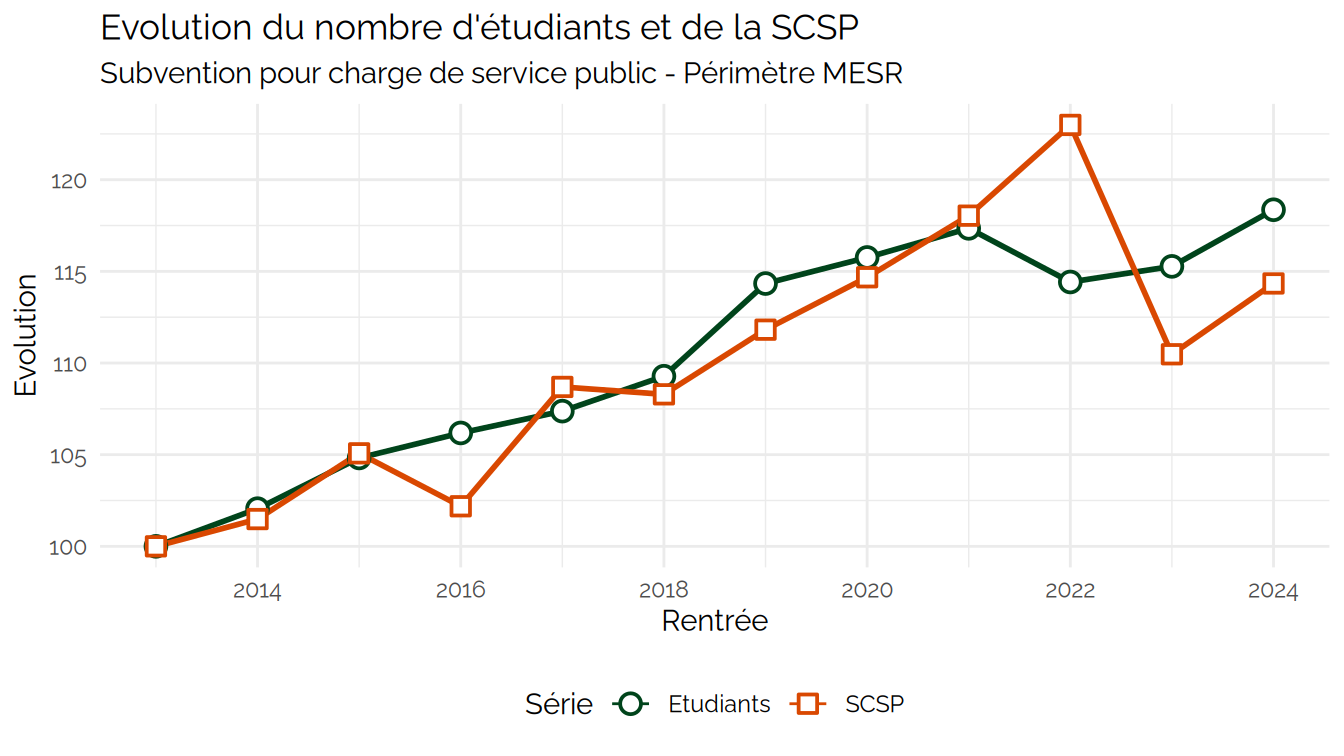
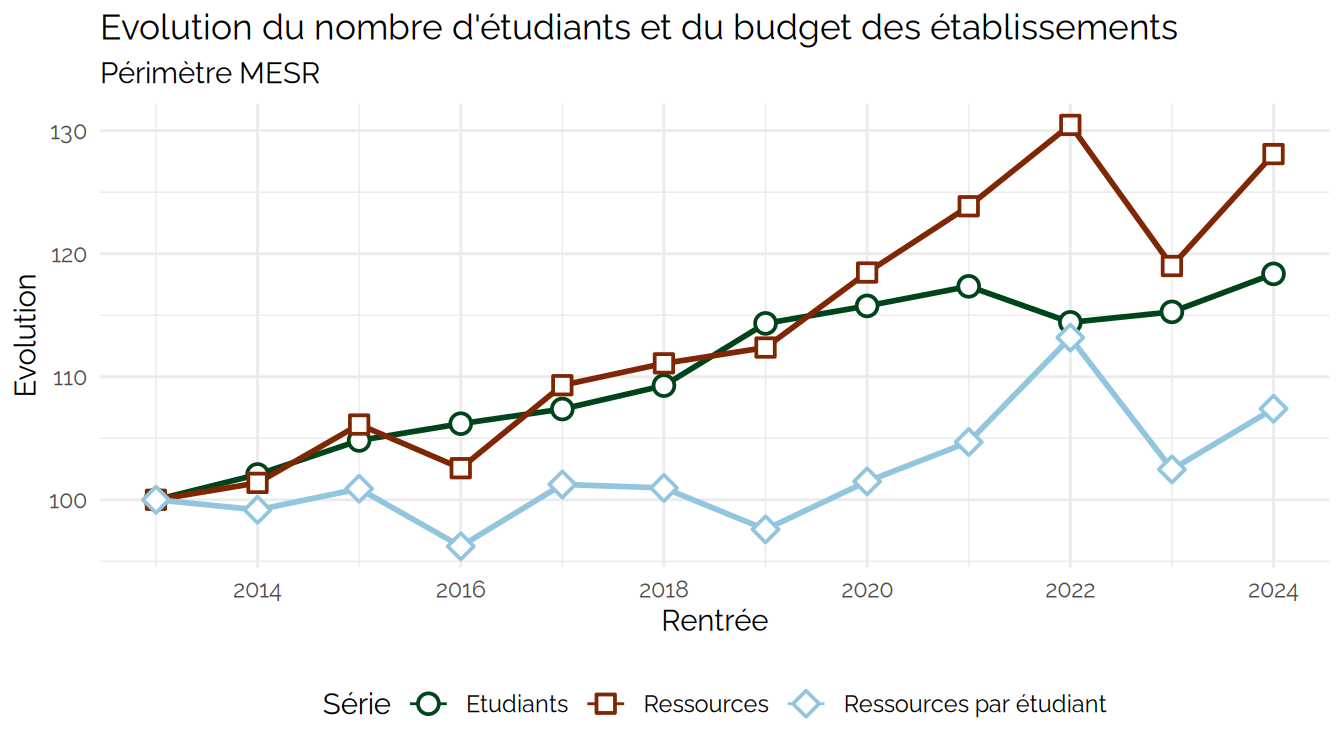
PMP

diff --git a/ressources/publications/PMP.md b/ressources/publications/PMP.md
@@ -1,74 +1,324 @@
 Démonstration PMP
 ================
 Julien Gossa
-2026-01-15
+2026-01-16
 
-    ## Warning: Using `size` aesthetic for lines was deprecated in ggplot2 3.4.0.
-    ## ℹ Please use `linewidth` instead.
-    ## ℹ The deprecated feature was likely used in the kpiESR package.
-    ##   Please report the issue to the authors.
-    ## This warning is displayed once every 8 hours.
-    ## Call `lifecycle::last_lifecycle_warnings()` to see where this warning was
-    ## generated.
+``` r
+kpiesr_plot_line("Ensemble", c("kpi.ETU.P.effectif","kpi.FIN.P.ressources","kpi.K.resPetu"), val="evolution") +
+  ggtitle("Evolution du nombre d'étudiants et du budget des établissements", subtitle="Périmètre MESR") +
+  guides(linetype = "none", alpha = "none", size="none")
+```
 
 <img src="PMP_files/figure-gfm/unnamed-chunk-1-1.png" width="672" />
 
-<img src="PMP_files/figure-gfm/unnamed-chunk-2-1.png" width="672" />
+``` r
+kpiESR::esr %>%
+  filter(Groupe == "Ensemble") %>%
+  select(Groupe,Rentrée,kpi.ETU.P.effectif,kpi.FIN.P.ressources,kpi.K.resPetu) %>%
+  spoiler_table(trim = Inf)
+```
+
+<details>
+
+<summary>
+
+Voir les données ( 20 lignes)
+</summary>
+
+| Groupe   | Rentrée | kpi.ETU.P.effectif | kpi.FIN.P.ressources | kpi.K.resPetu |
+|:---------|--------:|-------------------:|---------------------:|--------------:|
+| Ensemble |    2006 |            1529623 |                   NA |            NA |
+| Ensemble |    2007 |            1493175 |                   NA |            NA |
+| Ensemble |    2008 |            1478905 |                   NA |            NA |
+| Ensemble |    2009 |            1522878 |           7776497414 |      5363.035 |
+| Ensemble |    2010 |            1517695 |           9627196714 |      6661.175 |
+| Ensemble |    2011 |            1529764 |          12040180034 |      8257.382 |
+| Ensemble |    2012 |            1545350 |          12003657040 |      8137.190 |
+| Ensemble |    2013 |            1584311 |          14410079364 |      9513.437 |
+| Ensemble |    2014 |            1616863 |          14607836728 |      9435.338 |
+| Ensemble |    2015 |            1660689 |          15291056234 |      9598.863 |
+| Ensemble |    2016 |            1682300 |          14779878750 |      9153.470 |
+| Ensemble |    2017 |            1701163 |          15751952410 |      9631.895 |
+| Ensemble |    2018 |            1731347 |          16007825595 |      9604.987 |
+| Ensemble |    2019 |            1811434 |          16192943523 |      9284.327 |
+| Ensemble |    2020 |            1833963 |          17071925117 |      9655.673 |
+| Ensemble |    2021 |            1859143 |          17847631972 |      9959.983 |
+| Ensemble |    2022 |            1812784 |          18800680913 |     10767.445 |
+| Ensemble |    2023 |            1826270 |          17147802463 |      9748.138 |
+| Ensemble |    2024 |            1875210 |          18458815209 |     10217.281 |
+| Ensemble |      NA |                 NA |                   NA |            NA |
+
+</details>
+
+``` r
+kpiESR::esr %>%
+  filter(pid=="Ensemble", Rentrée > 2008) %>%
+  #filter(pid=="Ensemble", Rentrée > 2008) %>%
+  mutate(diff = kpi.FIN.S.SCSP-kpi.FIN.S.masseSalariale) %>% 
+  mutate(Exercice = Rentrée + 1) %>%
+  ggplot(aes(x=Exercice,y=diff, fill=diff)) +
+  geom_hline(yintercept = 0) +
+  geom_col(color="black") +
+  scale_x_continuous(breaks = seq(2010,2025)) +
+  scale_y_continuous(labels = ~ paste(.x/1e6,"M€"), name = "SCSP-MS") +
+  scale_fill_distiller(palette="RdBu", direction = 0, limits = c(-1.3e9,1.3e9)) +
+  ggtitle("Différence entre SCSP et masse salariale des établissements du MESR") +
+  theme(legend.position = "None", panel.grid.minor.x = element_blank())
+```
 
 <img src="PMP_files/figure-gfm/scsp.vs.ms2-1.png" width="672" />
 
-<img src="PMP_files/figure-gfm/unnamed-chunk-3-1.png" width="672" />
+``` r
+kpiESR::esr %>%
+  filter(pid=="Ensemble", Rentrée > 2008) %>%
+  mutate(Exercice = Rentrée + 1) %>%
+  select(Exercice, kpi.FIN.S.SCSP, kpi.FIN.S.masseSalariale) %>%
+  mutate(diff = kpi.FIN.S.SCSP-kpi.FIN.S.masseSalariale) %>% 
+  spoiler_table(trim = Inf)
+```
+
+<details>
+
+<summary>
+
+Voir les données ( 16 lignes)
+</summary>
+
+| Exercice | kpi.FIN.S.SCSP | kpi.FIN.S.masseSalariale |        diff |
+|---------:|---------------:|-------------------------:|------------:|
+|     2010 |     5871026841 |               5593631473 |   277395369 |
+|     2011 |     7742360328 |               7428452179 |   313908149 |
+|     2012 |     9702971521 |               9400228002 |   302743519 |
+|     2013 |     9803321536 |               9505940729 |   297380808 |
+|     2014 |    11575908623 |              11314788154 |   261120469 |
+|     2015 |    11748000800 |              11595678507 |   152322293 |
+|     2016 |    12163040998 |              12059890872 |   103150126 |
+|     2017 |    11828924354 |              11632354401 |   196569953 |
+|     2018 |    12582413749 |              12182245411 |   400168339 |
+|     2019 |    12535720776 |              12334753530 |   200967246 |
+|     2020 |    12944160082 |              12646990206 |   297169876 |
+|     2021 |    13275114697 |              13049162840 |   225951857 |
+|     2022 |    13664169867 |              13610855650 |    53314217 |
+|     2023 |    14237173831 |              14311329773 |   -74155942 |
+|     2024 |    12788776042 |              13196411788 |  -407635746 |
+|     2025 |    13236050100 |              14490528793 | -1254478693 |
+
+</details>
+
+``` r
+kpiesr_plot_line("Ensemble", c("kpi.FIN.S.SCSP","kpi.FIN.S.recettesFormation","kpi.FIN.S.recettesRecherche"), val="evolution") +
+  ggtitle("Evolution de la SCSP et des recettes propres formation et recherche", subtitle="Subvention pour charge de service public - Périmètre MESR") +
+  guides(linetype = "none", alpha = "none", size="none")
+```
+
+<img src="PMP_files/figure-gfm/unnamed-chunk-4-1.png" width="672" />
+
+``` r
+kpiESR::esr %>%
+  filter(Groupe == "Ensemble") %>%
+  select(Groupe,Rentrée,kpi.FIN.S.SCSP,kpi.FIN.S.recettesRecherche,kpi.FIN.S.recettesFormation, kpi.K.forPetu) %>%
+  spoiler_table(trim = Inf)
+```
+
+<details>
+
+<summary>
+
+Voir les données ( 20 lignes)
+</summary>
+
+| Groupe | Rentrée | kpi.FIN.S.SCSP | kpi.FIN.S.recettesRecherche | kpi.FIN.S.recettesFormation | kpi.K.forPetu |
+|:---|---:|---:|---:|---:|---:|
+| Ensemble | 2006 | NA | NA | NA | NA |
+| Ensemble | 2007 | NA | NA | NA | NA |
+| Ensemble | 2008 | NA | NA | NA | NA |
+| Ensemble | 2009 | 5871026841 | 191880286 | 424744458 | 278.9091 |
+| Ensemble | 2010 | 7742360328 | 191228399 | 528719945 | 348.3704 |
+| Ensemble | 2011 | 9702971521 | 209353252 | 637818439 | 416.9391 |
+| Ensemble | 2012 | 9803321536 | 283306955 | 667052017 | 431.6511 |
+| Ensemble | 2013 | 11575908623 | 369365453 | 606558942 | 382.8535 |
+| Ensemble | 2014 | 11748000800 | 349290283 | 558007131 | 345.1171 |
+| Ensemble | 2015 | 12163040998 | NA | NA | NA |
+| Ensemble | 2016 | 11828924354 | NA | NA | NA |
+| Ensemble | 2017 | 12582413749 | 812503084 | 925695623 | 544.1546 |
+| Ensemble | 2018 | 12535720776 | 850948467 | 935526451 | 540.3460 |
+| Ensemble | 2019 | 12944160082 | 857827343 | 829077063 | 457.6910 |
+| Ensemble | 2020 | 13275114697 | 1020214117 | 1089319927 | 593.9705 |
+| Ensemble | 2021 | 13664169867 | 1227104285 | 1212679498 | 652.2788 |
+| Ensemble | 2022 | 14237173831 | 1271338222 | 1294733608 | 714.2239 |
+| Ensemble | 2023 | 12788776042 | 1164642146 | 1237902370 | 677.8310 |
+| Ensemble | 2024 | 13236050100 | 1359052878 | 1302241656 | 694.4511 |
+| Ensemble | NA | NA | NA | NA | NA |
+
+</details>
+
+``` r
+kpiesr_plot_line("Ensemble", c("kpi.ENS.P.effectif","kpi.ENS.S.titulaires", "kpi.BIA.P.effectif","kpi.BIA.S.titulaires"), val="valeur") +
+  ggtitle("Evolution du nombre d'étudiants et de la SCSP", subtitle="Subvention pour charge de service public - Périmètre MESR") +
+  guides(linetype = "none", alpha = "none", size="none") +
+  xlim(2012,2024)
+```
 
     ## Scale for x is already present.
     ## Adding another scale for x, which will replace the existing scale.
 
-    ## Warning: Removed 4 rows containing missing values or values outside the scale range
-    ## (`geom_line()`).
-
-    ## Warning: Removed 4 rows containing missing values or values outside the scale range
-    ## (`geom_point()`).
-
-<img src="PMP_files/figure-gfm/unnamed-chunk-4-1.png" width="672" />
-
-<img src="PMP_files/figure-gfm/unnamed-chunk-5-1.png" width="672" />
-
 <img src="PMP_files/figure-gfm/unnamed-chunk-6-1.png" width="672" />
+
+``` r
+kpiesr_plot_line("Ensemble", c("kpi.ENS.P.effectif","kpi.ENS.S.titulaires", "kpi.BIA.P.effectif","kpi.BIA.S.titulaires"), val="evolution") +
+  ggtitle("Evolution du nombre d'étudiants et de la SCSP", subtitle="Subvention pour charge de service public - Périmètre MESR") +
+  guides(linetype = "none", alpha = "none", size="none") 
+```
+
+<img src="PMP_files/figure-gfm/unnamed-chunk-7-1.png" width="672" />
+
+``` r
+esr.pnl %>% 
+  filter(pid == "Ensemble") %>%
+  filter(kpi %in% c("kpi.ENS.P.effectif","kpi.ENS.S.titulaires", "kpi.ENS.S.contractuels", "kpi.BIA.P.effectif","kpi.BIA.S.titulaires")) %>%
+  select(kpi, Rentrée, valeur, evolution) %>%
+  filter(!is.na(valeur)) %>%
+  arrange(kpi, Rentrée) %>%
+  spoiler_table(trim=Inf)
+```
+
+<details>
+
+<summary>
+
+Voir les données ( 54 lignes)
+</summary>
+
+| kpi                    | Rentrée | valeur | evolution |
+|:-----------------------|--------:|-------:|----------:|
+| kpi.BIA.P.effectif     |    2015 |  93330 | 100.00000 |
+| kpi.BIA.P.effectif     |    2016 |  95283 | 102.09257 |
+| kpi.BIA.P.effectif     |    2017 |  92357 |  98.95746 |
+| kpi.BIA.P.effectif     |    2018 |  93460 | 100.13929 |
+| kpi.BIA.P.effectif     |    2019 |  93188 |  99.84785 |
+| kpi.BIA.P.effectif     |    2020 |  94492 | 101.24504 |
+| kpi.BIA.P.effectif     |    2021 |  95907 | 102.76117 |
+| kpi.BIA.S.titulaires   |    2015 |  55586 | 100.00000 |
+| kpi.BIA.S.titulaires   |    2016 |  55838 | 100.45335 |
+| kpi.BIA.S.titulaires   |    2017 |  55511 |  99.86507 |
+| kpi.BIA.S.titulaires   |    2018 |  56682 | 101.97172 |
+| kpi.BIA.S.titulaires   |    2019 |  55597 | 100.01979 |
+| kpi.BIA.S.titulaires   |    2020 |  55964 | 100.68003 |
+| kpi.BIA.S.titulaires   |    2021 |  55192 |  99.29119 |
+| kpi.ENS.P.effectif     |    2010 |  69086 |        NA |
+| kpi.ENS.P.effectif     |    2011 |  69541 |        NA |
+| kpi.ENS.P.effectif     |    2012 |  95587 |        NA |
+| kpi.ENS.P.effectif     |    2013 |  95892 | 100.00000 |
+| kpi.ENS.P.effectif     |    2014 |  95654 |  99.75180 |
+| kpi.ENS.P.effectif     |    2015 |  96338 | 100.46511 |
+| kpi.ENS.P.effectif     |    2016 |  97425 | 101.59867 |
+| kpi.ENS.P.effectif     |    2017 |  96477 | 100.61006 |
+| kpi.ENS.P.effectif     |    2018 |  96165 | 100.28470 |
+| kpi.ENS.P.effectif     |    2019 |  97381 | 101.55279 |
+| kpi.ENS.P.effectif     |    2020 |  98353 | 102.56643 |
+| kpi.ENS.P.effectif     |    2021 |  99682 | 103.95236 |
+| kpi.ENS.P.effectif     |    2022 | 100727 | 105.04213 |
+| kpi.ENS.P.effectif     |    2023 | 101420 | 105.76482 |
+| kpi.ENS.S.contractuels |    2012 |   5995 |        NA |
+| kpi.ENS.S.contractuels |    2013 |   5893 | 100.00000 |
+| kpi.ENS.S.contractuels |    2014 |   5567 |  94.46801 |
+| kpi.ENS.S.contractuels |    2015 |   1813 |  30.76531 |
+| kpi.ENS.S.contractuels |    2016 |   2176 |  36.92517 |
+| kpi.ENS.S.contractuels |    2017 |   2455 |  41.65960 |
+| kpi.ENS.S.contractuels |    2018 |   6586 | 111.75971 |
+| kpi.ENS.S.contractuels |    2019 |   6548 | 111.11488 |
+| kpi.ENS.S.contractuels |    2020 |   6712 | 113.89784 |
+| kpi.ENS.S.contractuels |    2021 |   7405 | 125.65756 |
+| kpi.ENS.S.contractuels |    2022 |   8010 | 135.92398 |
+| kpi.ENS.S.contractuels |    2023 |   3629 |  61.58154 |
+| kpi.ENS.S.titulaires   |    2010 |  69086 |        NA |
+| kpi.ENS.S.titulaires   |    2011 |  69541 |        NA |
+| kpi.ENS.S.titulaires   |    2012 |  69622 |        NA |
+| kpi.ENS.S.titulaires   |    2013 |  69934 | 100.00000 |
+| kpi.ENS.S.titulaires   |    2014 |  69973 | 100.05577 |
+| kpi.ENS.S.titulaires   |    2015 |  69628 |  99.56244 |
+| kpi.ENS.S.titulaires   |    2016 |  69643 |  99.58389 |
+| kpi.ENS.S.titulaires   |    2017 |  68520 |  97.97809 |
+| kpi.ENS.S.titulaires   |    2018 |  68585 |  98.07104 |
+| kpi.ENS.S.titulaires   |    2019 |  68592 |  98.08105 |
+| kpi.ENS.S.titulaires   |    2020 |  68452 |  97.88086 |
+| kpi.ENS.S.titulaires   |    2021 |  68175 |  97.48477 |
+| kpi.ENS.S.titulaires   |    2022 |  67845 |  97.01290 |
+| kpi.ENS.S.titulaires   |    2023 |  67886 |  97.07152 |
+
+</details>
+
+``` r
+kpiesr_plot_line("Ensemble", c("kpi.ENS.S.titulaires","kpi.ETU.P.effectif","kpi.K.ensPetu"), val="evolution") +
+  ggtitle("Evolution du nombre d'étudiants et de la SCSP", subtitle="Subvention pour charge de service public - Périmètre MESR") +
+  guides(linetype = "none", alpha = "none", size="none") 
+```
+
+<img src="PMP_files/figure-gfm/unnamed-chunk-9-1.png" width="672" />
+
+``` r
+kpiESR::esr %>%
+  filter(Groupe=="Universités et assimilés", Rentrée == 2024) %>%
+  left_join(kpiESR::esr.etab) %>%
+  mutate(PerimEx = ifelse(PerimEx=="","NINI", PerimEx)) %>%
+  mutate(diff = kpi.FIN.S.SCSP-kpi.FIN.S.masseSalariale) %>% 
+  mutate(Exercice = Rentrée + 1) %>%
+  ggplot(aes(x=kpi.ETU.P.effectif, y=diff, size=kpi.FIN.P.ressources, color=PerimEx, shape=PerimEx)) +
+  geom_hline(yintercept = 0) +
+  ggrepel::geom_text_repel(aes(label=Sigle), 
+                           size=3, color="grey") +
+  geom_point() +
+  scale_x_continuous(labels = ~ paste(.x/1e3,"k"), name = "Effectif étudiants") +
+  scale_y_continuous(labels = ~ paste(.x/1e6,"M€"), name = "SCSP-MS") +
+  scale_size_continuous(labels = ~ paste(.x/1e6,"M€"), name = "Budget") +
+  ggtitle("Taille et différence entre SCSP et masse salariale des universités", subtitle="En fonction de leur budget et de leur périmètre d'excellence, sur l'année 2024-2025") +
+  theme(legend.position = "right", panel.grid.minor.x = element_blank()) +
+  guides(color = guide_legend(override.aes = list(size = 4)))
+```
 
     ## Joining with `by = join_by(Groupe, pid, Etablissement, Groupe.détaillé,
     ## Comparable)`
-
-    ## Warning: Removed 16 rows containing missing values or values outside the scale range
-    ## (`geom_text_repel()`).
-
-    ## Warning: Removed 8 rows containing missing values or values outside the scale range
-    ## (`geom_point()`).
-
-    ## Warning: ggrepel: 27 unlabeled data points (too many overlaps). Consider
-    ## increasing max.overlaps
 
 <img src="PMP_files/figure-gfm/scsp.vs.ms3-1.png" width="672" />
 
+``` r
+kpiESR::esr %>%
+  filter(Groupe=="Universités et assimilés", Rentrée == 2024) %>%
+  left_join(kpiESR::esr.etab) %>%
+  mutate(PerimEx = ifelse(PerimEx=="","NINI", PerimEx)) %>%
+  mutate(taux = kpi.FIN.S.SCSP/kpi.FIN.S.masseSalariale) %>% 
+  filter(taux < 1.5, taux > 0.6) %>%
+  mutate(Exercice = Rentrée + 1) %>%
+  ggplot(aes(x=kpi.ETU.P.effectif, y=taux, size=kpi.FIN.P.ressources, color=PerimEx, shape=PerimEx)) +
+  geom_hline(yintercept = 1) +
+  geom_point() +
+  ggrepel::geom_text_repel(aes(label=Sigle), 
+                           size=3, color="grey") +
+  scale_x_continuous(labels = ~ paste(.x/1e3,"k"), name = "Effectif étudiants") +
+  #scale_y_continuous(labels = ~ paste(.x/1e6,"M€"), name = "SCSP-MS") +
+  scale_size_continuous(labels = ~ paste(.x/1e6,"M€"), name = "Budget") +
+  ggtitle("Différence entre SCSP et masse salariale des universités", subtitle="En fonction de leur taille et de leur périmètre d'excellence") +
+  theme(legend.position = "right", panel.grid.minor.x = element_blank()) +
+  guides(color = guide_legend(override.aes = list(size = 4)))
+```
+
     ## Joining with `by = join_by(Groupe, pid, Etablissement, Groupe.détaillé,
     ## Comparable)`
-
-    ## Warning: Removed 1 row containing missing values or values outside the scale range
-    ## (`geom_point()`).
-
-    ## Warning: Removed 8 rows containing missing values or values outside the scale range
-    ## (`geom_text_repel()`).
-
-    ## Warning: ggrepel: 4 unlabeled data points (too many overlaps). Consider
-    ## increasing max.overlaps
 
 <img src="PMP_files/figure-gfm/scsp.vs.ms4-1.png" width="672" />
 
+``` r
+kpiesr_plot_map(rentrée = 2023, id = "None", groupe = "Universités et assimilés", xvar = "kpi.K.forPetu", yvar = "kpi.K.ensPetu") +
+  labs(
+    title = "Recettes formation par étudiant et taux d'encadrement pédagogique",
+    subtitle = "des universités, en 2023-2024",
+    x = "Recettes formation par étudiant (€)",
+    y = "Taux d'encadrement pédagogique\n(ens. / 100 étu.)"
+  ) +
+  theme(legend.position="right")
+```
+
     ## Joining with `by = join_by(Groupe, pid, Etablissement, Groupe.détaillé,
     ## Comparable)`
 
-    ## Warning: Removed 13 rows containing missing values or values outside the scale range
-    ## (`geom_text_repel()`).
-
-    ## Warning: Removed 9 rows containing missing values or values outside the scale range
-    ## (`geom_point()`).
-
-<img src="PMP_files/figure-gfm/unnamed-chunk-7-1.png" width="672" />
+<img src="PMP_files/figure-gfm/unnamed-chunk-10-1.png" width="672" />
